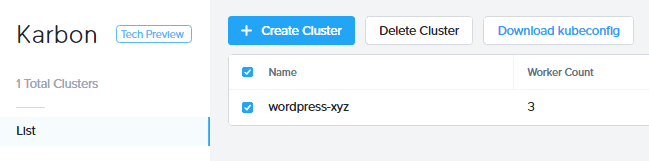
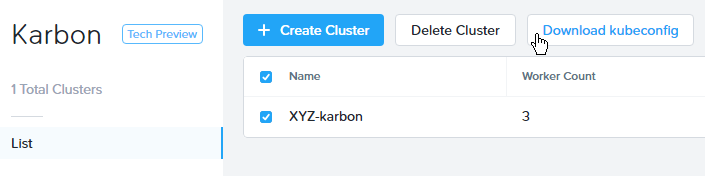
Karbon cluster consistency rename, new screencaps

diff --git a/karbon/karbon.rst b/karbon/karbon.rst
@@ -19,7 +19,7 @@ Karbon provides a consumer-grade experience for delivering Kubernetes on-prem pr
 
 **In this lab you will deploy a Kubernetes cluster using Karbon and then deploy multiple containers, referred to as Kubernetes pods, to run a sample application.**
 
-If you already have an understanding of containers, Kubernetes, challenges, and use cases, jump to `Create a Karbon Cluster`_.
+If you already have an understanding of containers, Kubernetes, challenges, and use cases, jump to `Lab Setup`_ and `Creating a Karbon Cluster`_.
 
 What are Containers?
 ....................
@@ -75,6 +75,8 @@ This lab requires applications provisioned as part of the :ref:`windows_tools_vm
 
 If you have not yet deployed this VM, see the linked steps before proceeding with the lab.
 
+It is **highly recommended** that you connect to the Tools VM using the Microsoft Remote Desktop client rather than the VM console launched via Prism. An RDP connection will allow you to copy and paste between your device and the VMs.
+
 Creating a Karbon Cluster
 +++++++++++++++++++++++++
 
@@ -100,7 +102,7 @@ To begin provisioning a Karbon cluster, click **+ Create Cluster**.
 
 On the **Name and Environment** tab, fill out the following fields:
 
-- **Name** - wordpress-*Initials*
+- **Name** - *Initials*-karbon
 - **Cluster** - Select *Your Nutanix cluster*
 - **Kubernetes Version** - 1.10.3
 - **Host OS Image** - centos
@@ -177,7 +179,7 @@ Click **Next**.
 
 On the **Storage Class** tab, fill out the following fields:
 
-- **Storage Class Name** - default-storageclass-*xyz*
+- **Storage Class Name** - default-storageclass-*Initials*
 - **Prism Element Cluster** - *Your Nutanix cluster*
 - **Nutanix Cluster Username** - admin
 - **Nutanix Cluster Password** - techX2019!
@@ -190,7 +192,7 @@ Click **Create**.
 
 Deployment of the cluster should take approximately 10 minutes. During this time, Karbon is pulling images from public image repositories for the **master**, **etcd**, and **worker** nodes, as well as **flannel**, the Nutanix Volumes plugin, and any additional Karbon plugins. Support for authenticated proxy and dark site image repositories will be added post-GA.
 
-Filtering VMs for **wordpress-**\ *Initials* in **Prism Central** will display the master, etcd, and worker VMs provisioned by Karbon.
+Filtering VMs for *Initials*\ **-karbon** in **Prism Central** will display the master, etcd, and worker VMs provisioned by Karbon.
 
 .. figure:: images/8.png
 
@@ -202,7 +204,7 @@ The Karbon cluster has finished provisioning when the **Status** of the cluster 
 
 .. figure:: images/10.png
 
-Click on your cluster name (**wordpress-**\ *Initials*) to access the Summary Page for your cluster.
+Click on your cluster name (*Initials*\ **-karbon**) to access the Summary Page for your cluster.
 
 .. figure:: images/11.png
 
@@ -219,7 +221,7 @@ In this exercise you will use ``kubectl`` to perform basic operations against yo
 
 From within your *Initials*\ **-Windows-ToolsVM** VM, browse to **Prism Central** and open **Karbon**.
 
-Select your **wordpress-**\ *Initials* cluster and click **Download kubeconfig**.
+Select your *Initials*\ **-karbon** cluster and click **Download kubeconfig**.
 
 .. figure:: images/12.png
 
@@ -280,7 +282,7 @@ Move both files to the **wordpress** directory using the following command:
 
 .. code-block:: PowerShell
 
-	mv ~\Downloads\*.yaml
+	mv ~\Downloads\*.yaml ~\wordpress\
 	cd ~\wordpress\
 
 Open the **wordpress-deployment.yaml** file with your preferred text editor.
@@ -299,7 +301,11 @@ Under **spec: > type:**, change the value from **LoadBalancer** to **NodePort** 
 
   You can learn more about Kubernetes publishing service types `here <https://kubernetes.io/docs/concepts/services-networking/service/#publishing-services-service-types>`_.
 
-Next you will need to define a **secret** to be used as the MySQL password. Run the following command to create the secret:
+Open the **mysql-deployment.yaml** file and note that it requires an environmental variable to define the **MYSQL_ROOT_PASSWORD** as part of deployment. **No changes are required to this file.**
+
+.. figure:: images/14b.png
+
+Define the **secret** to be used as the MySQL password by running the following command:
 
 .. code-block:: bash
 
@@ -331,7 +337,7 @@ In addition to the MySQL service, the **mysql-deployment.yaml** also specifies t
 
 You will note that the **STORAGECLASS** matches the **default-storageclass-**\ *Initials* provisioned by Karbon.
 
-The volume also appears in **Karbon** under **wordpress-**\ *Initials* **> Volume**.
+The volume also appears in **Karbon** under *Initials*\ **-karbon > Volume**.
 
 .. figure:: images/16.png
 
@@ -380,7 +386,7 @@ Open \http://*WORKER-VM-IP:WORDPRESS SERVICE PORT*/ in a new browser tab to acce
 
 Click **Continue** and fill out the following fields:
 
-- **Site Title** - Karbon Blog
+- **Site Title** - *Initials*\ 's Karbon Blog
 - **Username** - admin
 - **Password** - nutanix/4u
 - **Your Email** - noreply@nutanix.com
@@ -404,7 +410,7 @@ Elasticsearch is commonly deployed alongside Kibana, a powerful data visualizati
 
 Fluentd is a popular data collector that runs on all Kubernetes nodes to tail container log files, filter and transform the log data, and deliver it to the Elasticsearch cluster, where it will be indexed and stored.
 
-Return to the **Karbon Console** and select your **wordpress-**\ *Initials* cluster.
+Return to the **Karbon Console** and select your *Initials*\ **-karbon** cluster.
 
 Select **Add-on** from the sidebar to view and manage available Karbon plugins.
 
